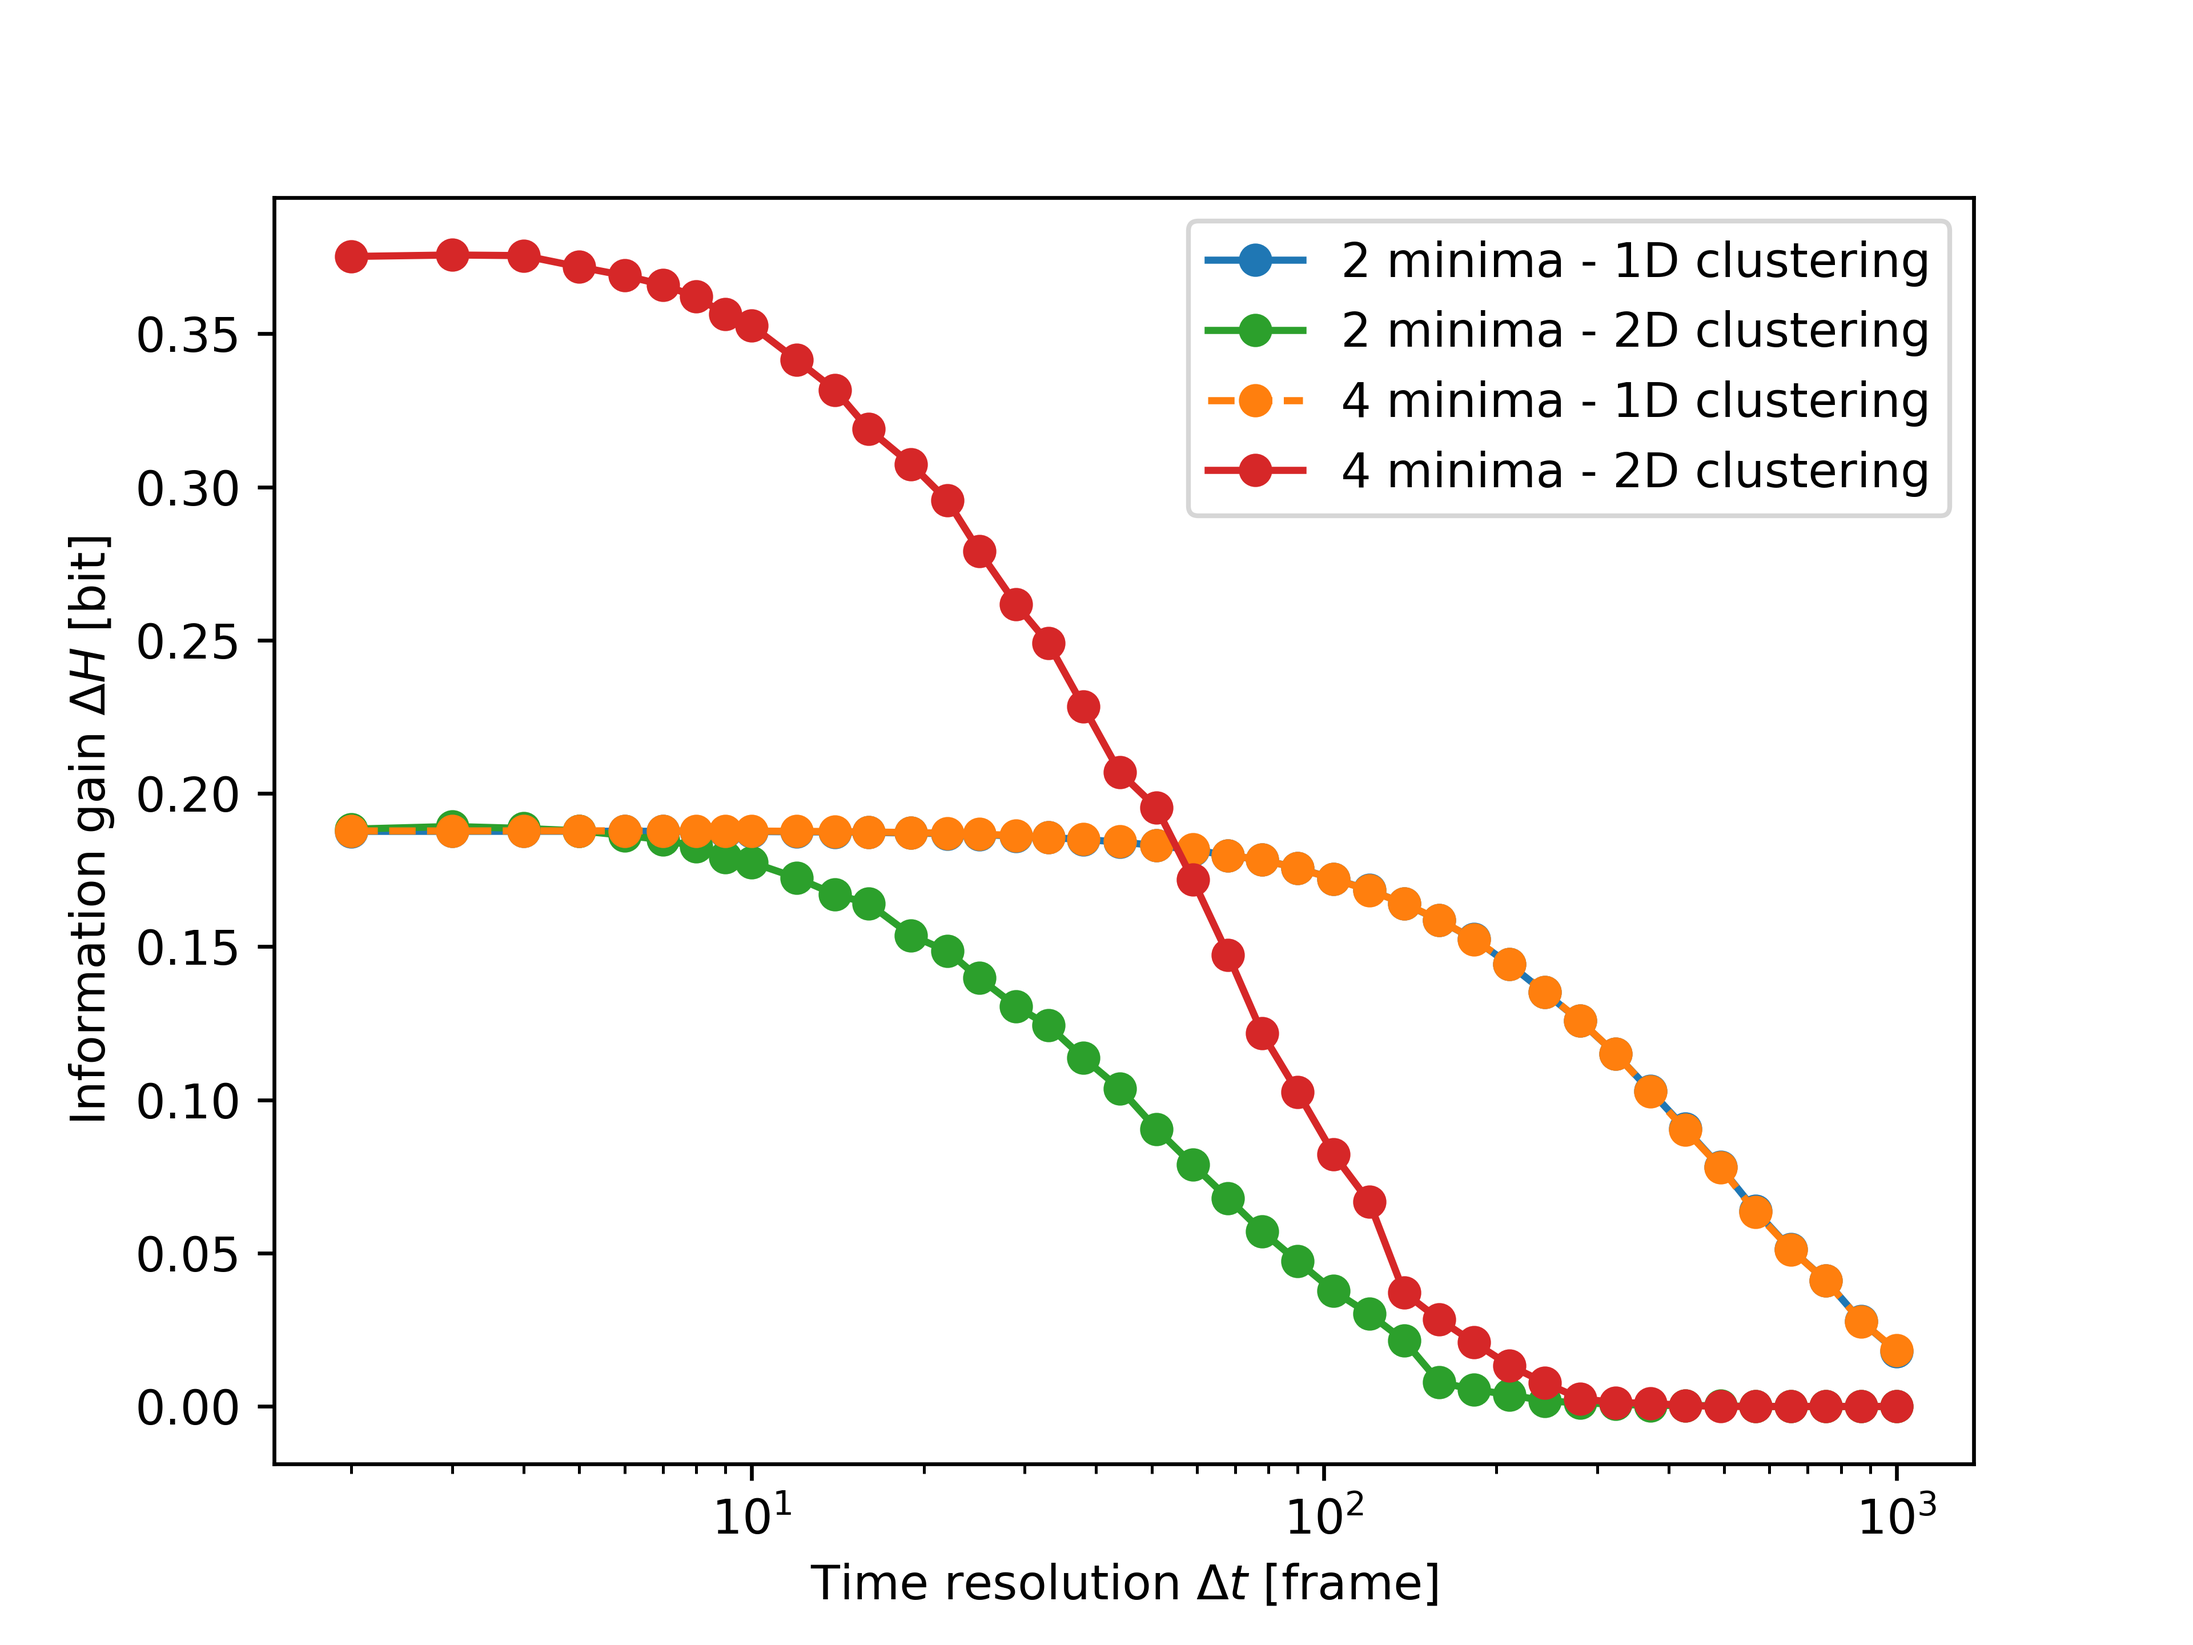
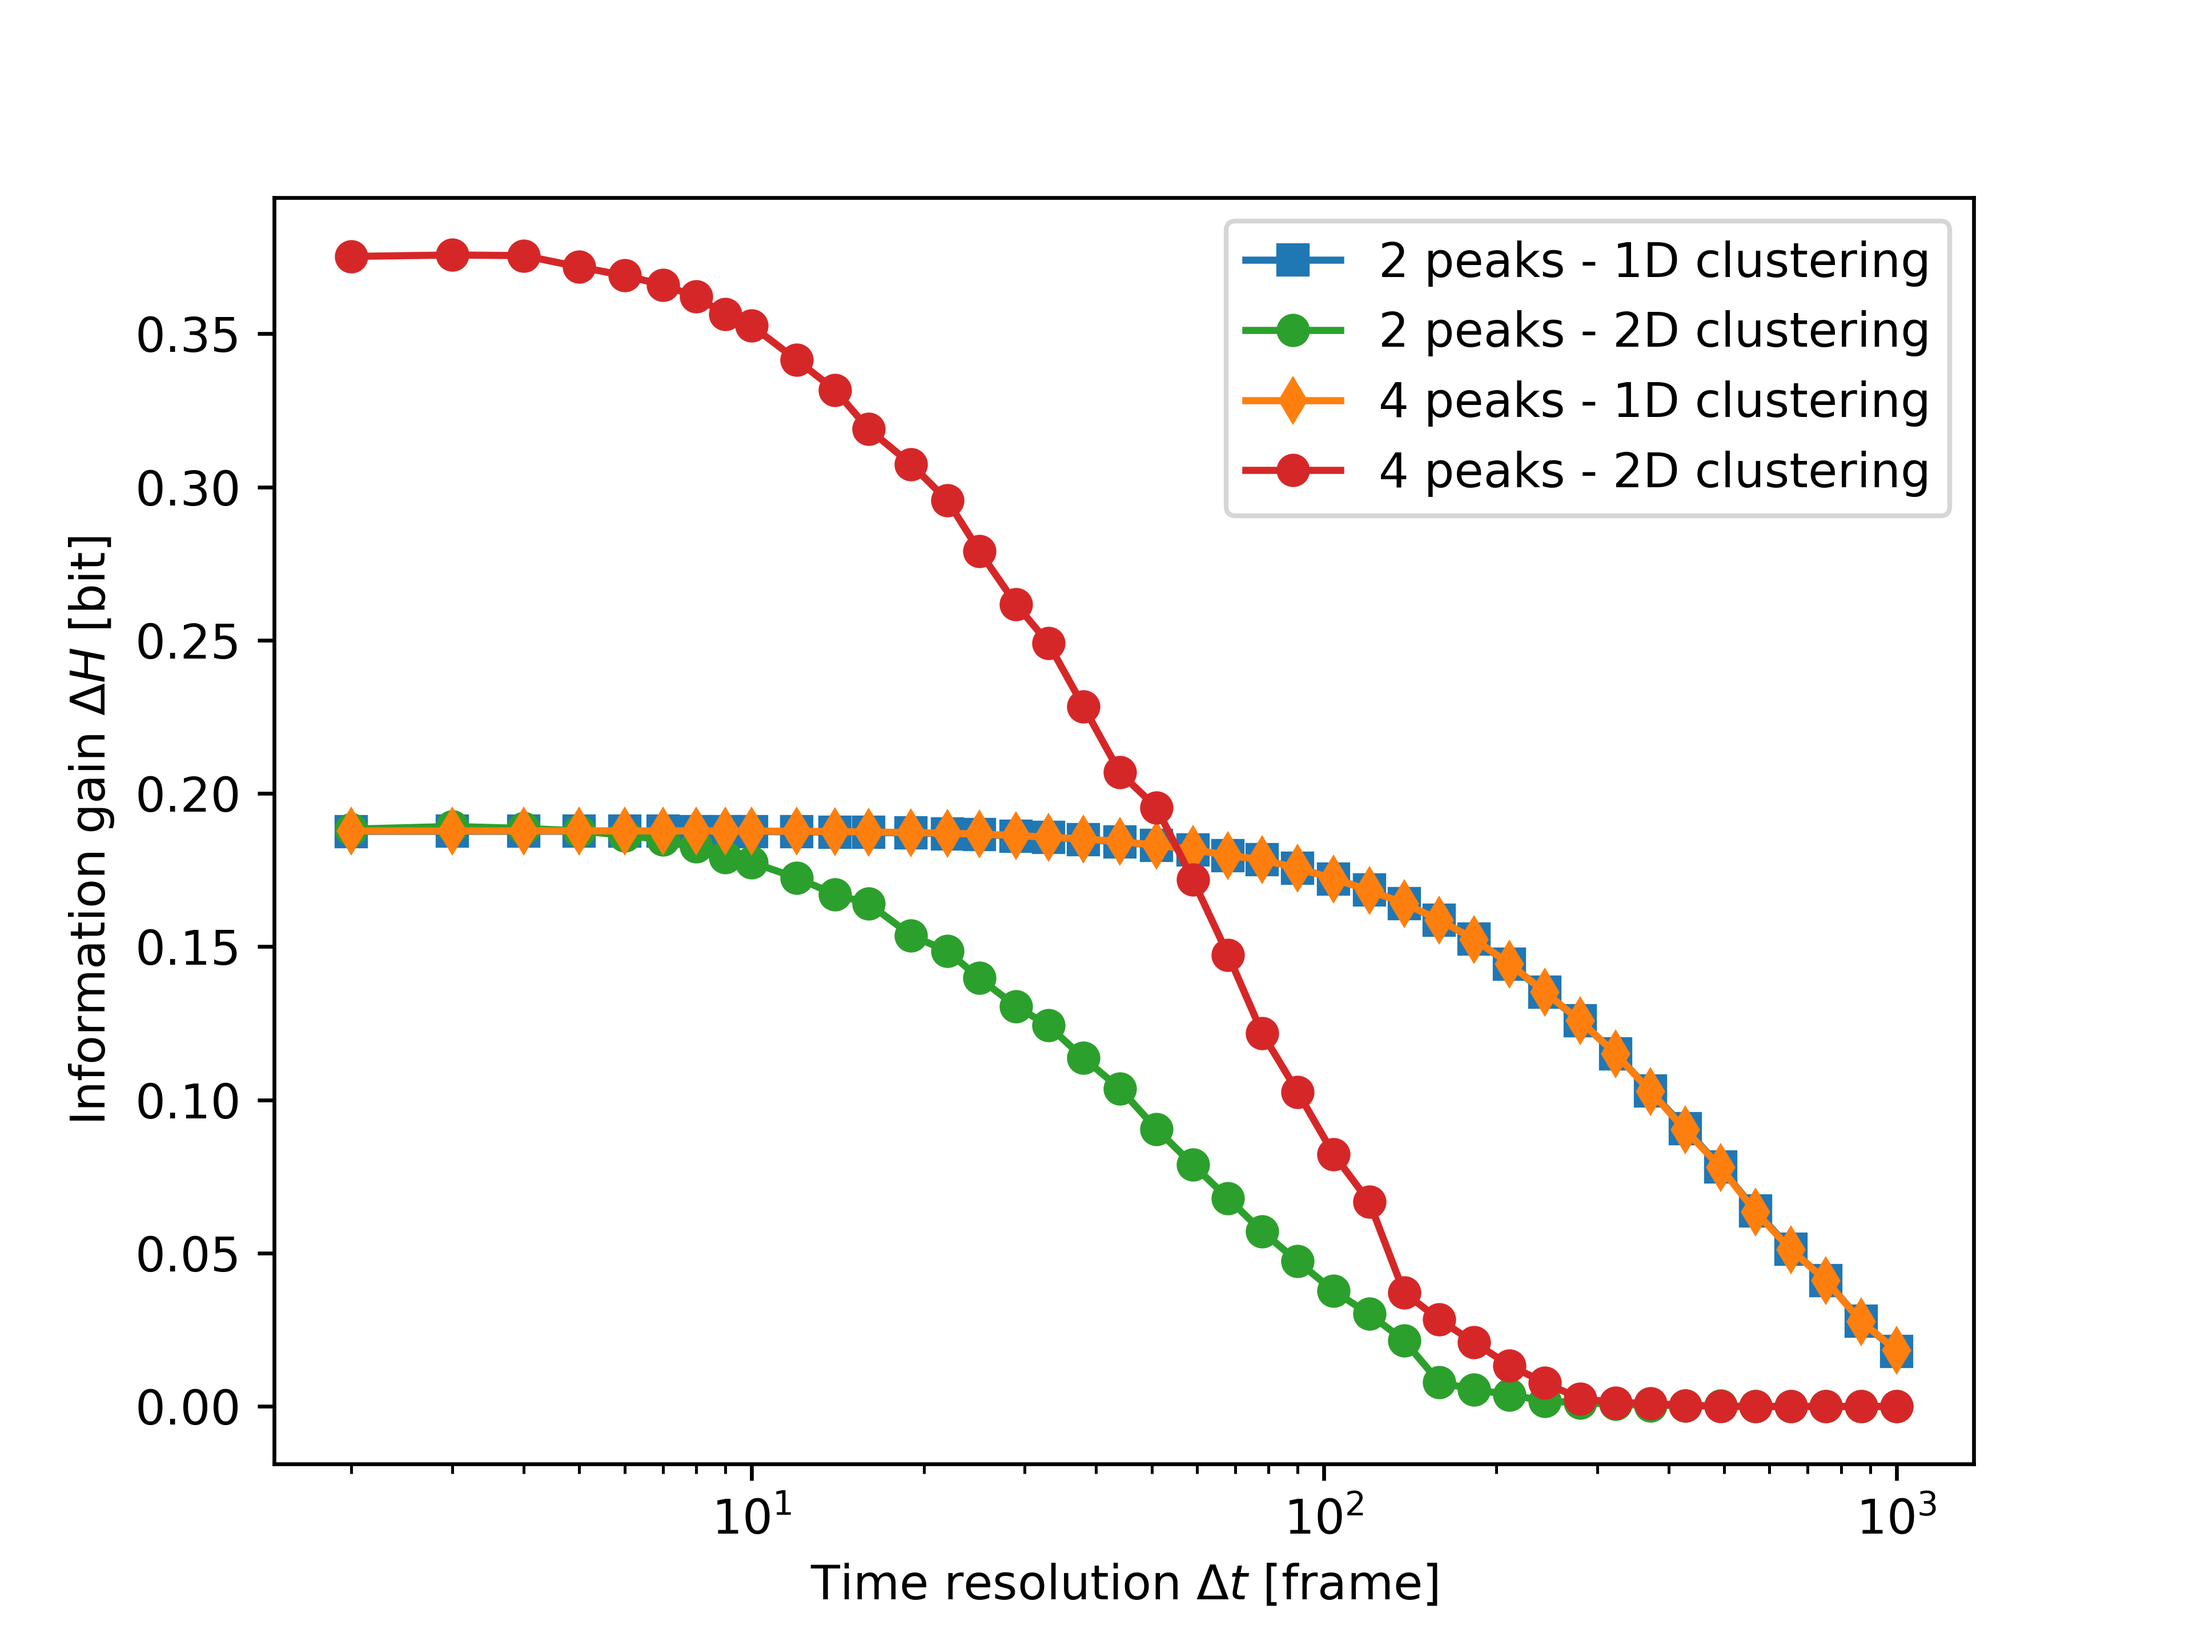
Improving code

diff --git a/examples/info_gain.py b/examples/info_gain.py
@@ -173,32 +173,25 @@ def main() -> None:
         results.append(info_gain_xy)
         env0.append(tmp_env0)
 
+    colorlist = ["C0", "C2", "C1", "C3"]
+    markerlist = ["s", "o", "d", "o"]
+    labellist = [
+        "2 peaks - 1D clustering",
+        "2 peaks - 2D clustering",
+        "4 peaks - 1D clustering",
+        "4 peaks - 2D clustering",
+    ]
+
     fig, ax = plt.subplots()
-    ax.plot(
-        delta_t_list, results[0], label="2 minima - 1D clustering", marker="o"
-    )
-    ax.plot(
-        delta_t_list,
-        results[1],
-        label="2 minima - 2D clustering",
-        c="C2",
-        marker="o",
-    )
-    ax.plot(
-        delta_t_list,
-        results[2],
-        label="4 minima - 1D clustering",
-        ls="--",
-        c="C1",
-        marker="o",
-    )
-    ax.plot(
-        delta_t_list,
-        results[3],
-        label="4 minima - 2D clustering",
-        c="C3",
-        marker="o",
-    )
+    for i, system in enumerate(results):
+        ax.plot(
+            delta_t_list,
+            system,
+            label=labellist[i],
+            c=colorlist[i],
+            marker=markerlist[i],
+        )
+
     ax.set_xlabel(r"Time resolution $\Delta t$ [frame]")
     ax.set_ylabel(r"Information gain $\Delta H$ [bit]")
     ax.set_xscale("log")
